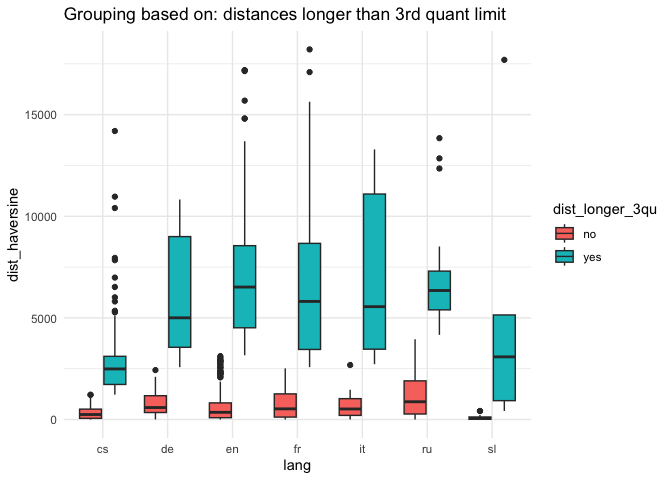
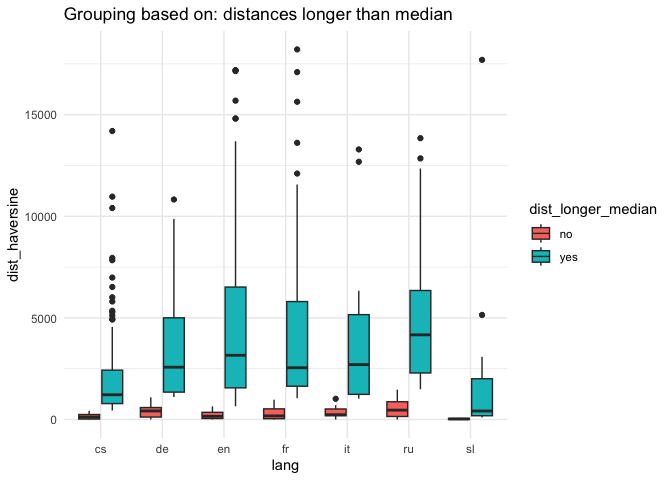
minor upd 01

diff --git a/scr/01_geodata_directions.md b/scr/01_geodata_directions.md
@@ -164,13 +164,33 @@ head(formulas_d %>% select(lang, text, from_placename, to_placename, dist_havers
     5 cs    Od Hor Kuten veden k Praze    Kutná Hora     Prague                62.5 
     6 cs    od Baltu až k Adrii           Baltic Sea     Adriatic Sea        1725.  
 
+### proportion of dist \> 1000 in lang
+
+    # A tibble: 14 × 5
+       lang  dist_long     n n_total  perc
+       <chr> <chr>     <int>   <int> <dbl>
+     1 cs    long         90     308  29.2
+     2 cs    short       218     308  70.8
+     3 de    long         32      58  55.2
+     4 de    short        26      58  44.8
+     5 en    long        124     294  42.2
+     6 en    short       170     294  57.8
+     7 fr    long        108     217  49.8
+     8 fr    short       109     217  50.2
+     9 it    long         13      25  52  
+    10 it    short        12      25  48  
+    11 ru    long         93     162  57.4
+    12 ru    short        69     162  42.6
+    13 sl    long          3      22  13.6
+    14 sl    short        19      22  86.4
+
 ### distribution
 
 Poet’s mind is often flying not that far away?
 
-![](01_geodata_directions.markdown_strict_files/figure-markdown_strict/unnamed-chunk-8-1.png)
-
 ![](01_geodata_directions.markdown_strict_files/figure-markdown_strict/unnamed-chunk-9-1.png)
+
+![](01_geodata_directions.markdown_strict_files/figure-markdown_strict/unnamed-chunk-10-1.png)
 
     <ggplot2::labels> List of 2
      $ y    : chr "Dist Haversine (km)"
@@ -202,7 +222,7 @@ dist_raw <- formulas_d %>%
 dist_raw
 ```
 
-![](01_geodata_directions.markdown_strict_files/figure-markdown_strict/unnamed-chunk-10-1.png)
+![](01_geodata_directions.markdown_strict_files/figure-markdown_strict/unnamed-chunk-11-1.png)
 
 ``` r
 dist_log <- formulas_d %>% 
@@ -221,7 +241,7 @@ dist_log <- formulas_d %>%
 dist_log
 ```
 
-![](01_geodata_directions.markdown_strict_files/figure-markdown_strict/unnamed-chunk-11-1.png)
+![](01_geodata_directions.markdown_strict_files/figure-markdown_strict/unnamed-chunk-12-1.png)
 
 ### dist summary stats
 
@@ -243,21 +263,21 @@ Plot based on the groups long / short distances:
 I just wanted to see how these values are distributed, should we divide
 them in two groups
 
-![](01_geodata_directions.markdown_strict_files/figure-markdown_strict/unnamed-chunk-14-1.png)
-
 ![](01_geodata_directions.markdown_strict_files/figure-markdown_strict/unnamed-chunk-15-1.png)
+
+![](01_geodata_directions.markdown_strict_files/figure-markdown_strict/unnamed-chunk-16-1.png)
 
 Same grouping method for all: dist is short is \< 1000km, long if
 \>1000km
 
-![](01_geodata_directions.markdown_strict_files/figure-markdown_strict/unnamed-chunk-16-1.png)
+![](01_geodata_directions.markdown_strict_files/figure-markdown_strict/unnamed-chunk-17-1.png)
 
 #### Time: distances based on author birth year
 
 This is how author’s birth years are distributed, if we’re only looking
 in our formulas subset
 
-![](01_geodata_directions.markdown_strict_files/figure-markdown_strict/unnamed-chunk-18-1.png)
+![](01_geodata_directions.markdown_strict_files/figure-markdown_strict/unnamed-chunk-19-1.png)
 
 Add time period column & recalculate summary dist metrics: I aggregated
 based on the half-century periods the author was born. The question here
@@ -279,7 +299,7 @@ when from_to formula appears?
     10 en 1700—1749     3201.        701.       2773.               8
     # ℹ 20 more rows
 
-![](01_geodata_directions.markdown_strict_files/figure-markdown_strict/unnamed-chunk-20-1.png)
+![](01_geodata_directions.markdown_strict_files/figure-markdown_strict/unnamed-chunk-21-1.png)
 
 -   overall: we can see than Czech, German, & Slovenian from_to
     aggregated(!) distances are usually below 2k km; longest from-to are
@@ -315,7 +335,7 @@ author’s year birth)
 
     `geom_smooth()` using method = 'loess' and formula = 'y ~ x'
 
-![](01_geodata_directions.markdown_strict_files/figure-markdown_strict/unnamed-chunk-21-1.png)
+![](01_geodata_directions.markdown_strict_files/figure-markdown_strict/unnamed-chunk-22-1.png)
 
 ``` r
 rm(dist_summary, dist_t_summary, loc_freq, dist_log, dist_raw)
@@ -609,16 +629,16 @@ unique (sampled example)
     # A tibble: 10 × 7
        lang  type_pair    text  from_placename to_placename dist_type dist_haversine
        <chr> <chr>        <chr> <chr>          <chr>        <chr>              <dbl>
-     1 fr    default -->… D' O… Assyrian Empi… Sheba        long             2301.  
-     2 fr    strait (wat… de l… Dardanelles    Cumae        long             1046.  
-     3 en    mountain --… From… Mount Carmel   Ptolemais    long             1318.  
-     4 fr    region --> … d' É… Epirus         Aetna        short             538.  
-     5 cs    ancient cit… Od A… Athens         Delphi       short             121.  
-     6 fr    ancient cit… De M… Memphis        Moscow       long             2927.  
-     7 en    city --> an… From… Beersheba      Dan          short             236.  
-     8 fr    ancient cit… de T… Thebes         Mantineia    long             1638.  
-     9 ru    ancient sit… из В… Bethany        Jerusalem    short               3.49
-    10 en    city --> an… From… Beersheba      Dan          short             236.  
+     1 fr    ancient cit… De T… Thebes         Rome         long              2577. 
+     2 en    ancient cit… from… Nicaea         River Trent  long              2707. 
+     3 ru    ancient cit… От В… Babylon        Bethlehem    short              873. 
+     4 ru    river --> a… От Н… Nile           Nineveh      long              1299. 
+     5 en    region --> … From… Arcadia        Calydon      short              104. 
+     6 en    ancient cit… From… Dan            Beersheba    short              236. 
+     7 fr    strait (wat… de l… Dardanelles    Cumae        long              1046. 
+     8 en    ancient cit… From… Mycenae        Corinth      short               27.6
+     9 fr    ancient cit… de B… Babylon        Rome         long              2996. 
+    10 cs    island --> … od L… Lesbos         Palmyra      long              1186. 
 
 ### city parts
 
